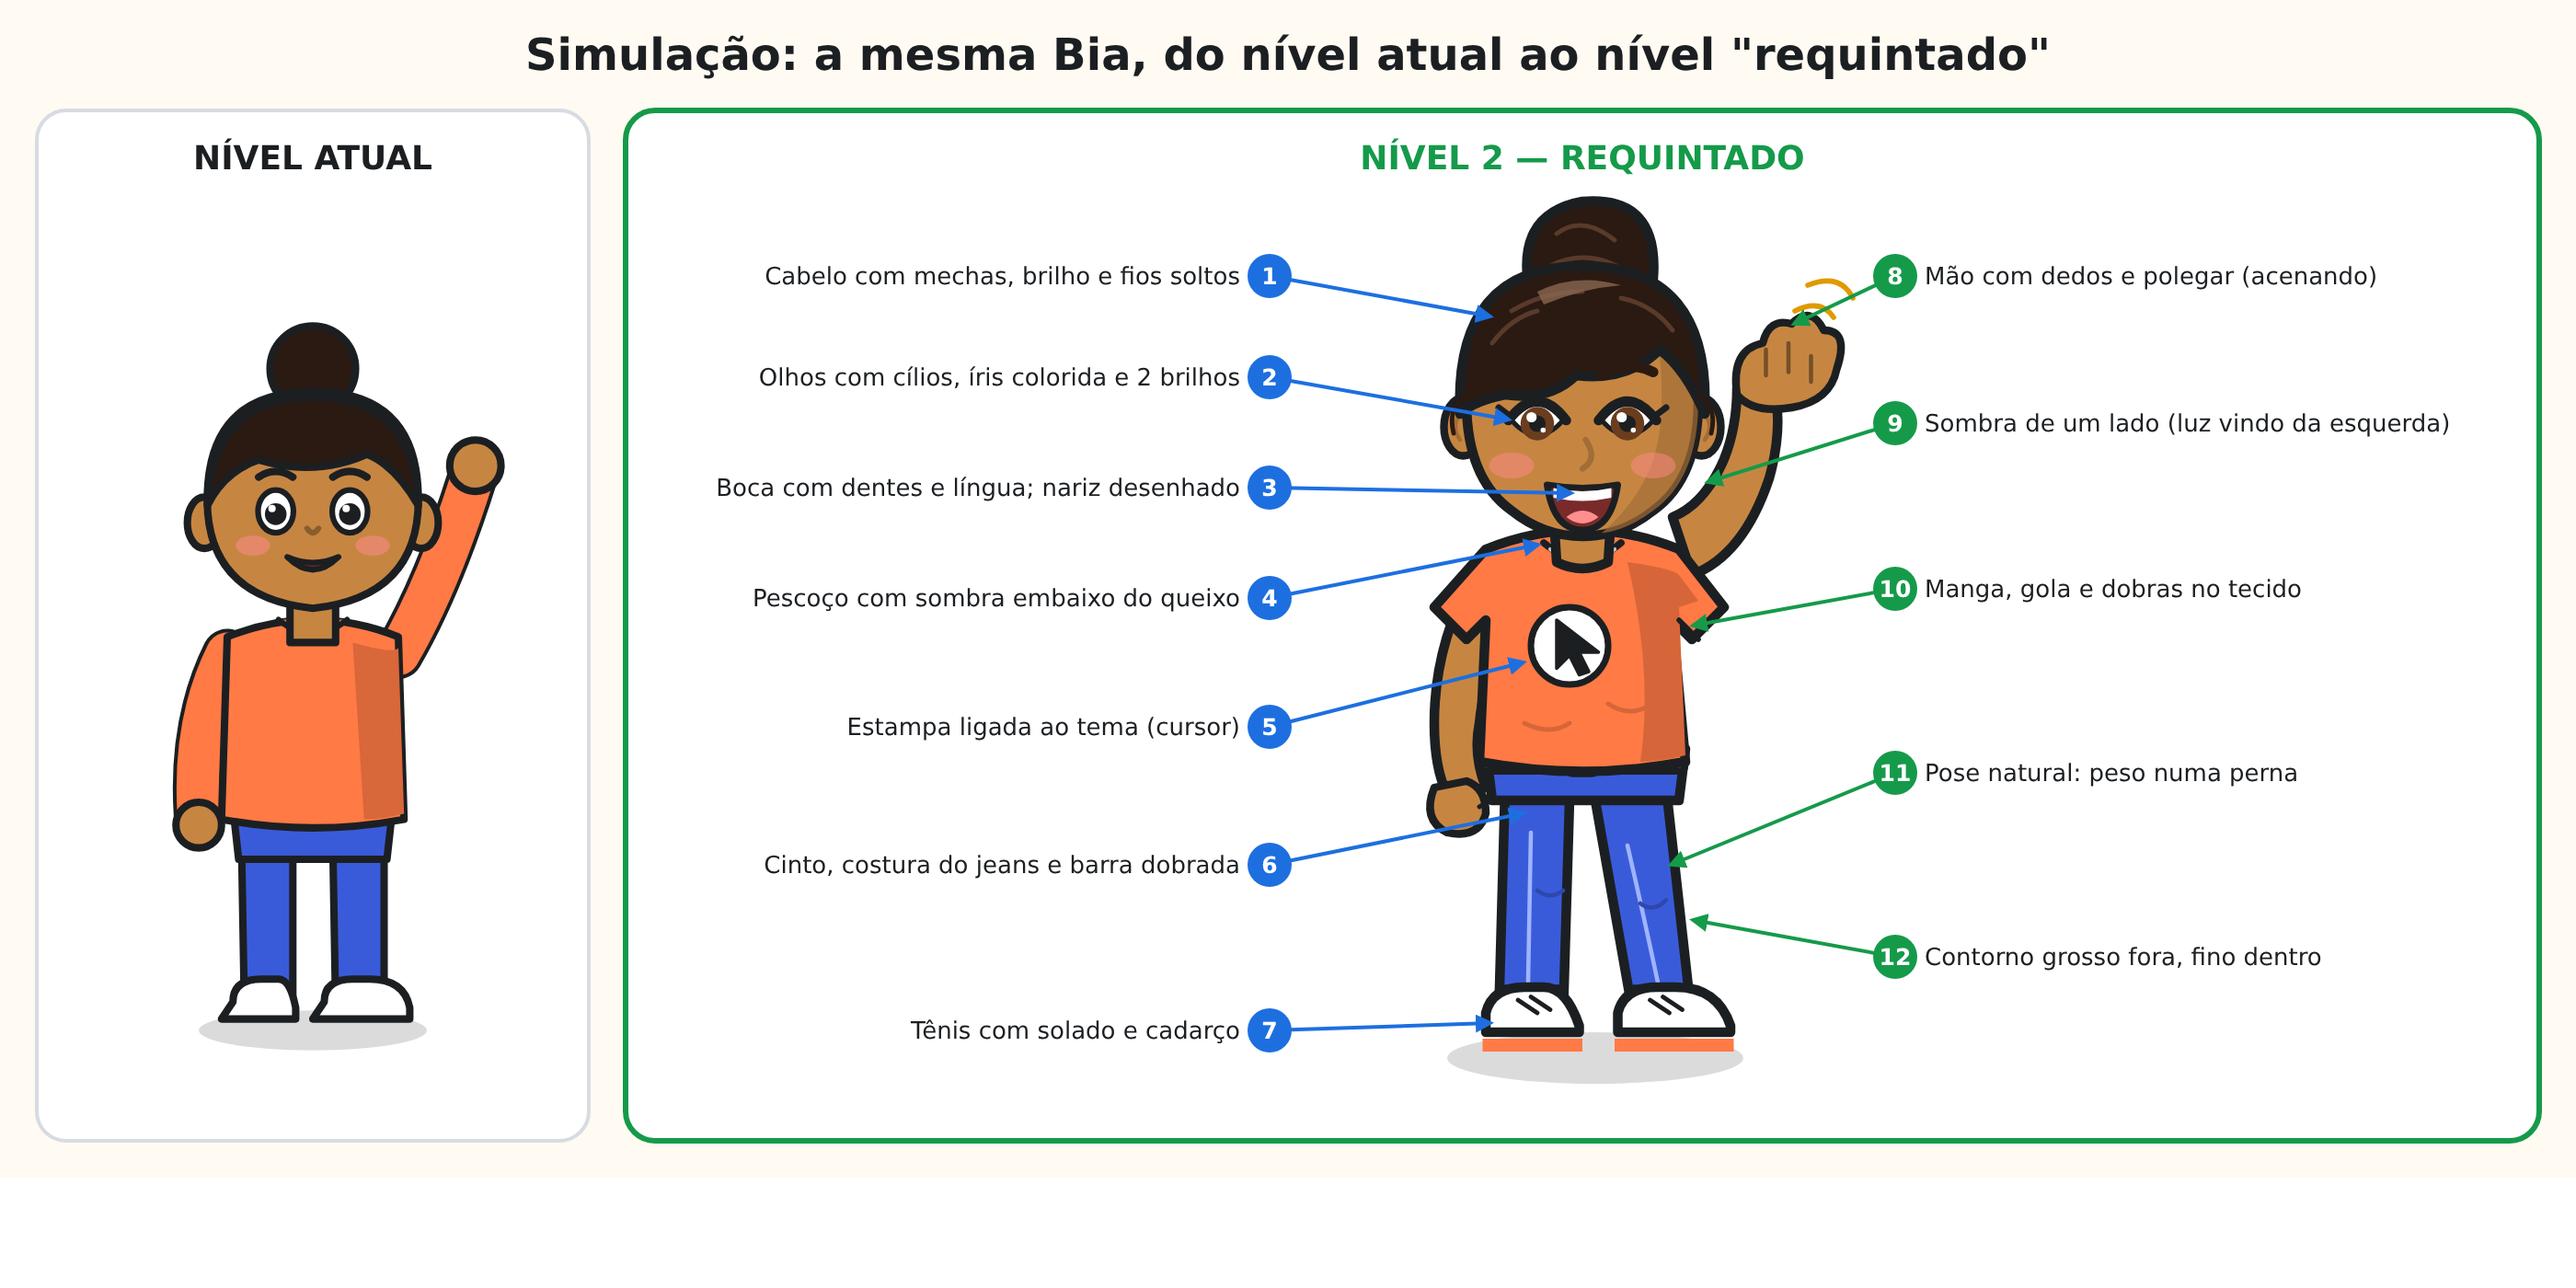
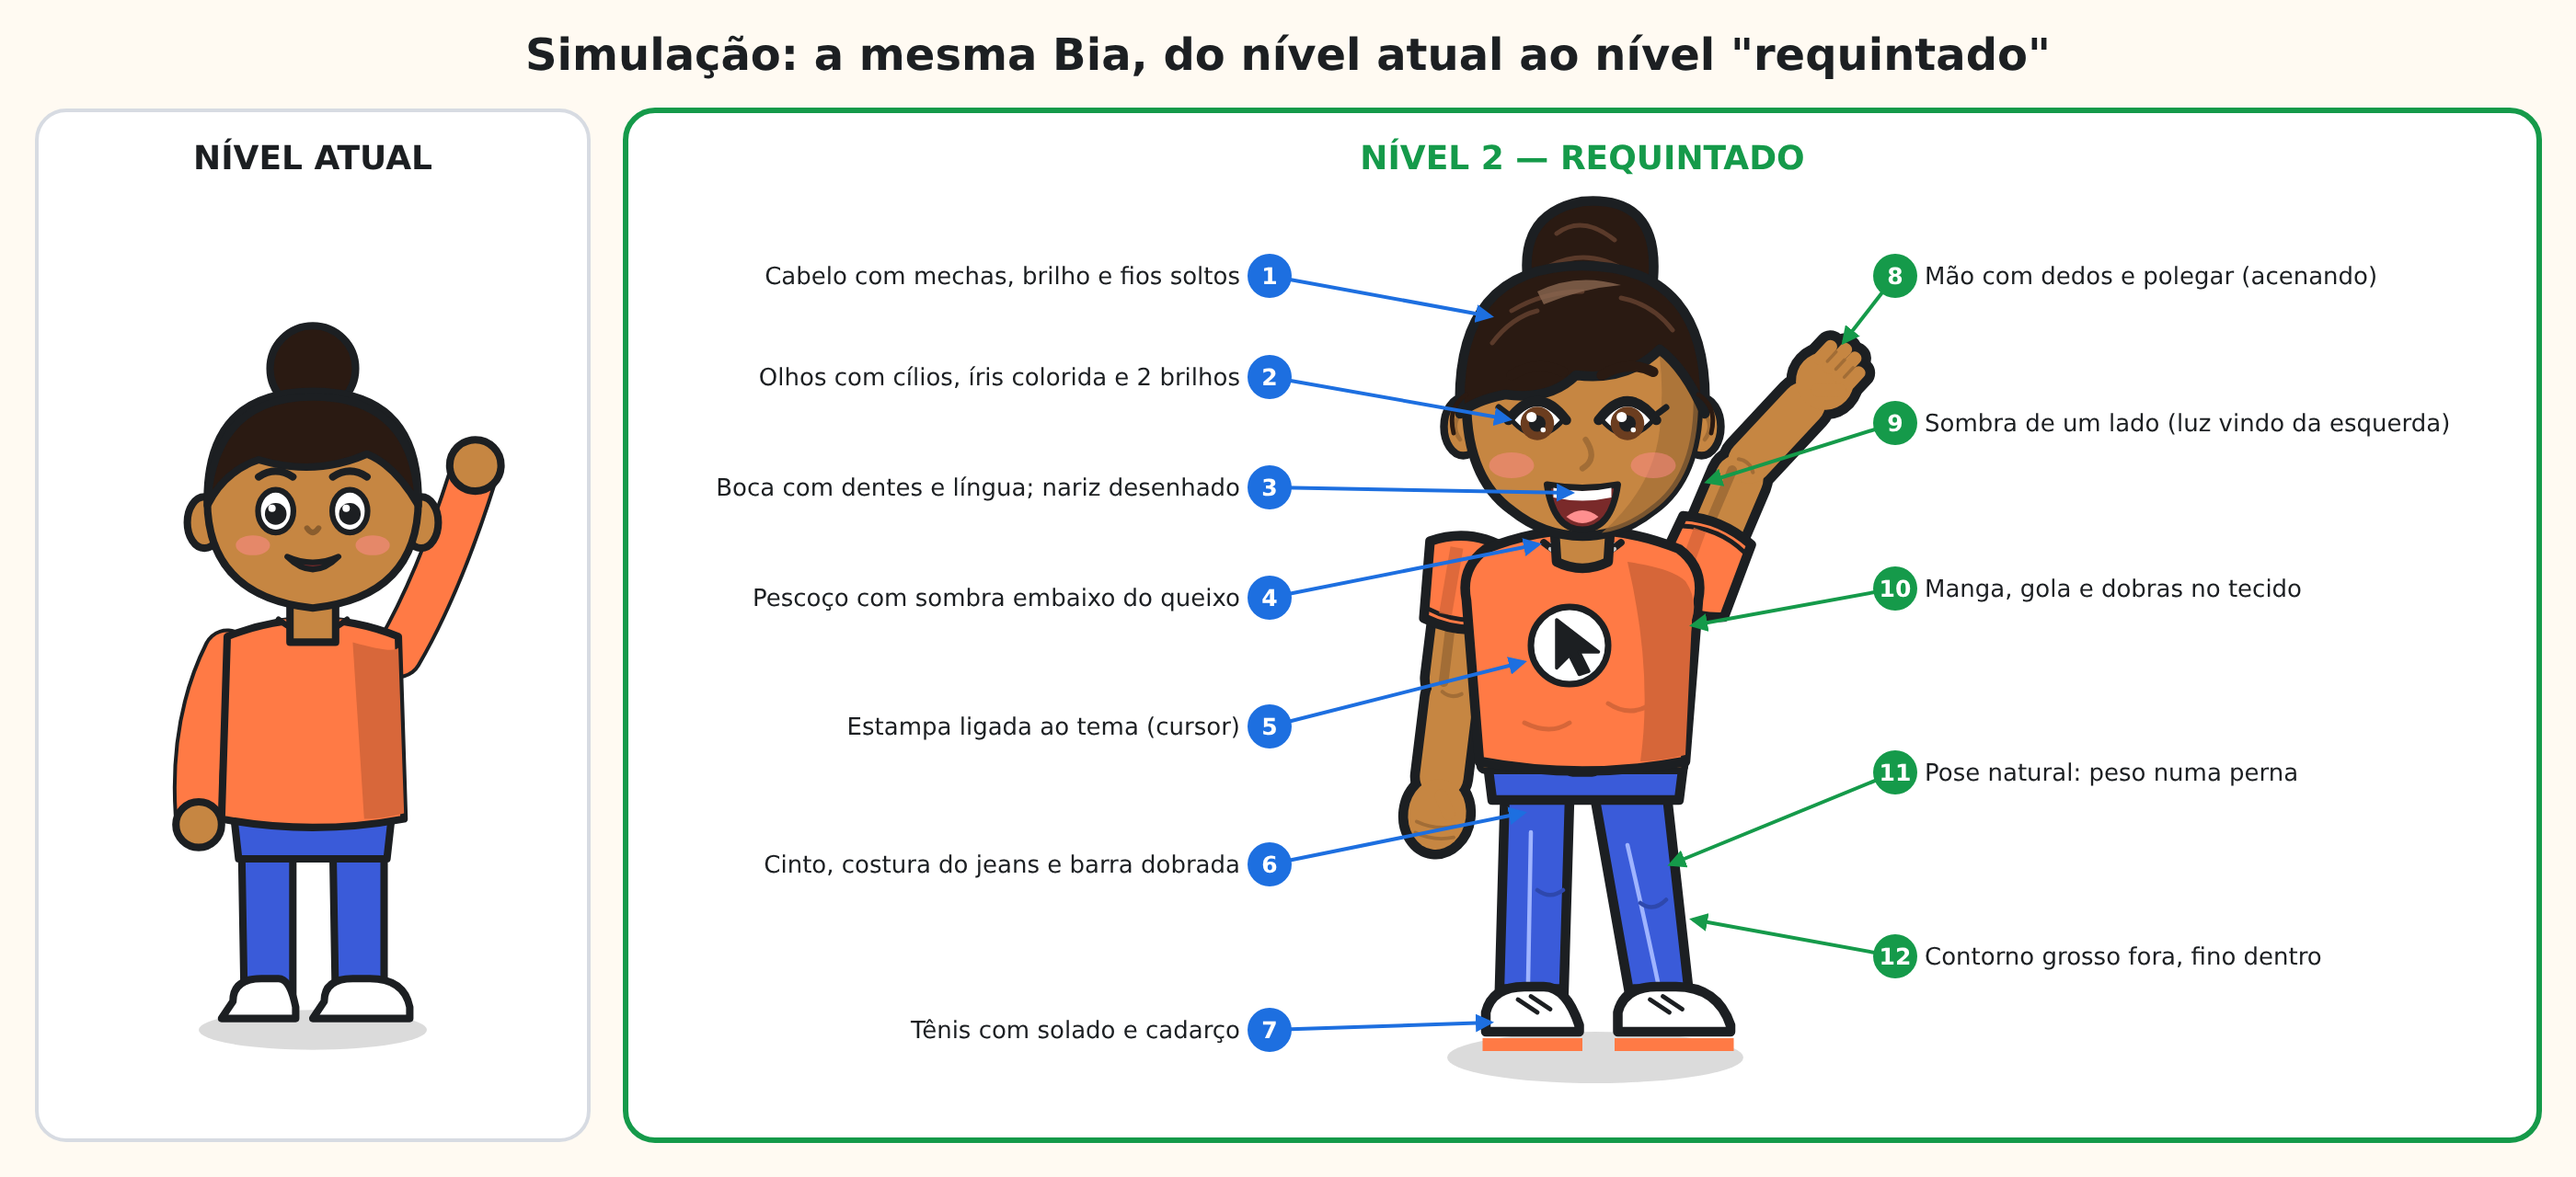
Ilustração nível 2: braços iguais (mesma peça espelhada), mais grossos e saindo de trás do tronco; simulação e animação refeitas
Claude-Session: https://claude.ai/code/session_01QQHyr7T7AGjhG6uSVjRWaC

diff --git a/ferramentas/ilustracoes/personagem_nivel2.py b/ferramentas/ilustracoes/personagem_nivel2.py
@@ -17,7 +17,7 @@ CAB, CAB_L = P["cabelo"], "#5a3a2a"
 CAM, CAM_S = P["camisa"], escurecer(P["camisa"], .84)
 JEANS, JEANS_S = "#3a5bd9", escurecer("#3a5bd9", .8)
 
-OMBRO = (34, -150)
+
 
 def _pernas():
     o = []
@@ -33,31 +33,58 @@ def _pernas():
     o.append(f'<path d="M-30 -96 L-28 -80 H30 L32 -96 Z" {L(JEANS)}/><rect x="-32" y="-96" width="64" height="7" rx="2" {L("#6b4a2b", 2)}/><rect x="-5" y="-97" width="10" height="9" rx="2" {L("#ffd34d", 1.6)}/>')
     return "".join(o)
 
-def _braco_esquerdo():  # de quem olha: parado ao lado do corpo
-    return (f'<path d="M-34 -150 q-12 22 -12 46 q0 14 4 22 l12 -2 q-4 -10 -2 -20 q2 -18 10 -36 Z" {L(PELE)}/>'
-            f'<path d="M-46 -84 q-4 10 4 14 q10 2 12 -6 q0 -8 -6 -10 Z" {L(PELE, 2.4)}/><path d="M-32 -78 q4 -2 4 -8" {li(1.4)}/>')
-
 def _tronco():
-    o = [f'<path d="M-30 -158 q30 -12 60 0 q8 6 6 16 L32 -92 q-32 6 -64 0 L-30 -136 l-6 6 l-10 -10 Z" {L(CAM)}/>',
+    o = [f'<path d="M-30 -158 q30 -12 60 0 q8 6 6 16 L32 -92 q-32 6 -64 0 L-36 -142 q-2 -10 6 -16 Z" {L(CAM)}/>',
          f'<path d="M14 -154 q14 2 18 6 q4 6 2 12 L32 -94 q-8 2 -14 2 Q22 -120 14 -154 Z" fill="{CAM_S}"/>',
-         f'<path d="M-36 -130 l6 -6" {li(1.6)}/>',
          f'<path d="M-12 -160 q12 10 24 0" {L("#ffffff", 2.2)}/><path d="M-10 -158 q10 7 20 0" {li(1.2, "#c9c9c9")}/>',
          f'<path d="M-18 -104 q8 4 14 0 M8 -110 q6 4 12 1" {li(1.4, CAM_S)}/>',
          f'<circle cx="-4" cy="-128" r="12" {L("#ffffff", 2)}/><path d="M-8 -136 v15 l4 -4 l3 6 l3 -1 l-3 -6 h6 Z" {L(T, 1)}/>',
          f'<path d="M-9 -170 L-8 -154 q8 4 16 0 L9 -170 Z" {L(PELE)}/><path d="M-8 -166 q8 6 16 0 L9 -170 H-9 Z" fill="{PELE_S}"/>']
     return "".join(o)
 
-def _braco_direito(ombro, cotovelo, mao):
-    """Desenhado pendurado (apontando para baixo); as 3 articulações giram: ombro, cotovelo e punho."""
-    ox, oy = OMBRO; ex, ey = ox + 4, oy + 40; px, py = ex + 2, ey + 34
-    manga = f'<path d="M{ox - 10} {oy - 6} q14 -8 22 4 l-4 18 q-10 4 -18 -2 Z" {L(CAM)}/><path d="M{ox - 8} {oy + 14} q9 4 16 -1" {li(1.6)}/>'
-    braco = f'<path d="M{ox - 7} {oy + 6} L{ex - 6} {ey} L{ex + 7} {ey} L{ox + 9} {oy + 6} Z" {L(PELE)}/>'
-    ante = f'<path d="M{ex - 6} {ey - 2} L{px - 5} {py} L{px + 6} {py} L{ex + 7} {ey - 2} Z" {L(PELE)}/><circle cx="{ex + .5}" cy="{ey}" r="6.6" fill="{PELE}"/>'
-    # mão aberta: palma + 4 dedos + polegar (apontando para baixo antes de girar)
-    m = (f'<path d="M{px - 8} {py - 2} q-2 10 0 16 l1 12 q2 3 4 0 l0 -9 l2 12 q2 3 4 0 l0 -12 l2 11 q2 3 4 0 l0 -11 l1 8 q2 3 4 0 l-1 -14 q2 -8 -2 -13 Z" {L(PELE, 2.4)}/>'
-         f'<path d="M{px - 8} {py + 6} q-8 2 -9 9 q2 3 5 1 q2 -5 6 -4" {L(PELE, 2.2)}/>')
-    return (f'<g transform="rotate({ombro} {ox} {oy})">{braco}'
-            f'<g transform="rotate({cotovelo} {ex} {ey})">{ante}<g transform="rotate({mao} {px} {py})">{m}</g></g>{manga}</g>')
+# Braços: os DOIS usam a mesma peça (mesmas medidas), um é o espelho do outro.
+# Medidas a partir do ombro: braço 36, antebraço 30, mão ~20 (ponta dos dedos a ~86 do ombro).
+REPOUSO = -7          # braço solto ao lado do corpo, levemente afastado do tronco
+OMBRO = (36, -150)    # ombro direito (de quem olha); o esquerdo é (-36, -150)
+BRACO, ANTEBRACO = 36, 30
+
+def _peca_braco(ombro, cotovelo, mao, aberta, modo):
+    """modo "contorno": desenha só o contorno grosso; modo "cor": só o recheio (cobre as emendas por dentro)."""
+    if modo == "contorno": est = f'fill="{T}" stroke="{T}" stroke-width="6" stroke-linejoin="round"'
+    else: est = f'fill="{PELE}"'
+    cot = BRACO; pun = BRACO + ANTEBRACO
+    braco = f'<rect x="-7.5" y="-4" width="15" height="{BRACO + 8}" rx="7.5" {est}/>'
+    ante = f'<rect x="-6.8" y="{cot - 4}" width="13.6" height="{ANTEBRACO + 8}" rx="6.8" {est}/>'
+    if aberta:   # mão aberta: palma + 4 dedos + polegar
+        m = f'<ellipse cx="0" cy="{pun + 7}" rx="9" ry="9" {est}/>'
+        for i, (dx, comp) in enumerate(((-6, 9), (-2, 11.5), (2, 11.5), (6, 9))):
+            m += f'<rect x="{dx - 2}" y="{pun + 9}" width="4" height="{comp}" rx="1.8" {est}/>'
+        m += f'<rect x="-3" y="{pun + 1}" width="4" height="11" rx="2" transform="rotate(48 {-1} {pun + 4})" {est}/>'
+    else:        # mão relaxada: fechadinha, do mesmo tamanho
+        m = f'<ellipse cx="0" cy="{pun + 9}" rx="9" ry="11" {est}/>'
+        m += f'<rect x="-3" y="{pun + 1}" width="4" height="10" rx="2" transform="rotate(30 {-1} {pun + 4})" {est}/>'
+    return (f'<g transform="rotate({ombro + REPOUSO})">{braco}'
+            f'<g transform="rotate({cotovelo} 0 {cot})">{ante}<g transform="rotate({mao} 0 {pun})">{m}</g></g></g>')
+
+def _detalhes_braco(ombro, cotovelo, mao, aberta):
+    cot = BRACO; pun = BRACO + ANTEBRACO
+    sombra = f'<path d="M3 6 V{BRACO - 2}" stroke="{PELE_S}" stroke-width="3" stroke-linecap="round"/>'
+    dobra = f'<path d="M-3 {cot + 1} q3 2 6 0" {li(1.2, PELE_S)}/>'
+    if aberta:
+        dedos = ''.join(f'<path d="M{dx} {pun + 12} v4" {li(1, PELE_S)}/>' for dx in (-3.6, 0, 3.6))
+    else:
+        dedos = ''.join(f'<path d="M-6 {pun + y} q6 2 12 0" {li(1.1, PELE_S)}/>' for y in (12, 15.5))
+    manga = (f'<path d="M-12.5 -9 Q0 -15 12.5 -9 L11.5 15 Q0 19 -11.5 15 Z" {L(CAM)}/>'
+             f'<path d="M-10.5 12 Q0 16 10.5 12" {li(1.4)}/><path d="M4 -8 L5 13" stroke="{CAM_S}" stroke-width="4" opacity=".8"/>')
+    return (f'<g transform="rotate({ombro + REPOUSO})">{sombra}'
+            f'<g transform="rotate({cotovelo} 0 {cot})">{dobra}<g transform="rotate({mao} 0 {pun})">{dedos}</g></g>{manga}</g>')
+
+def _braco(lado, ombro=0, cotovelo=0, mao=0, aberta=False):
+    """lado = 1 (direito de quem olha) ou -1 (esquerdo, espelhado). Ângulo negativo levanta o braço para fora."""
+    ox, oy = OMBRO
+    ini = f'<g transform="translate({ox * lado} {oy}) scale({lado} 1)">'
+    return (ini + _peca_braco(ombro, cotovelo, mao, aberta, "contorno") + _peca_braco(ombro, cotovelo, mao, aberta, "cor")
+            + _detalhes_braco(ombro, cotovelo, mao, aberta) + '</g>')
 
 def _cabeca(olhos, inclina, boca):
     o = [f'<g transform="rotate({inclina} 0 -166)">']
@@ -94,6 +121,9 @@ def _cabeca(olhos, inclina, boca):
     o.append('</g>')
     return "".join(o)
 
-def bia_n2(ombro=0, cotovelo=0, mao=0, olhos="abertos", inclina=0, boca="sorriso", sobe=0):
+def bia_n2(ombro=0, cotovelo=0, mao=0, olhos="abertos", inclina=0, boca="sorriso", sobe=0, esq=(0, 0, 0)):
+    """ombro/cotovelo/mao = braço direito (de quem olha); esq = (ombro, cotovelo, mao) do braço esquerdo."""
+    aberta = ombro < -40
     return (sombra_chao(4, 0, 46, 8) + _pernas() + f'<g transform="translate(0 {sobe})">'
-            + _braco_esquerdo() + _tronco() + _cabeca(olhos, inclina, boca) + _braco_direito(ombro, cotovelo, mao) + '</g>')
+            + _braco(-1, *esq, aberta=esq[0] < -40) + _braco(1, ombro, cotovelo, mao, aberta=aberta)
+            + _tronco() + _cabeca(olhos, inclina, boca) + '</g>')

diff --git a/ferramentas/ilustracoes/simulacao_requinte.py b/ferramentas/ilustracoes/simulacao_requinte.py
@@ -3,6 +3,8 @@ import sys
 from biblioteca import *
 
 T = TINTA
+from personagem_nivel2 import bia_n2   # a Bia nível 2 oficial (braços iguais, articulados)
+
 def L(fill, w=3.0):   # contorno de fora (mais grosso)
     return f'fill="{fill}" stroke="{T}" stroke-width="{w}" stroke-linejoin="round" stroke-linecap="round"'
 def li(w=1.6, cor=T, op=1):  # linha de dentro (mais fina)
@@ -89,7 +91,7 @@ def pagina():
     o.append(f'<rect x="20" y="60" width="300" height="560" rx="16" fill="#fff" stroke="#d7dbe2" stroke-width="2"/><text x="170" y="92" font-size="18" font-weight="800" text-anchor="middle" fill="{T}">NÍVEL ATUAL</text>')
     o.append(aluno("bia", 170, 560, 1.55, bracos=("normal", "acima")))
     o.append(f'<rect x="340" y="60" width="1040" height="560" rx="16" fill="#fff" stroke="{COR["verde"]}" stroke-width="3"/><text x="860" y="92" font-size="18" font-weight="800" text-anchor="middle" fill="{COR["verde"]}">NÍVEL 2 — REQUINTADO</text>')
-    o.append(g(860, 575, 1.75, bia2()))
+    o.append(g(860, 575, 1.75, bia_n2(ombro=-150, cotovelo=20)))
     # chamadas (esquerda e direita da Bia 2)
     o.append(chamada(690, 150, 810, 172, 1, "Cabelo com mechas, brilho e fios soltos"))
     o.append(chamada(690, 205, 820, 228, 2, "Olhos com cílios, íris colorida e 2 brilhos"))
@@ -98,7 +100,7 @@ def pagina():
     o.append(chamada(690, 395, 828, 360, 5, "Estampa ligada ao tema (cursor)"))
     o.append(chamada(690, 470, 828, 442, 6, "Cinto, costura do jeans e barra dobrada"))
     o.append(chamada(690, 560, 810, 556, 7, "Tênis com solado e cadarço"))
-    o.append(chamada(1030, 150, 975, 176, 8, "Mão com dedos e polegar (acenando)", "verde"))
+    o.append(chamada(1030, 150, 1002, 186, 8, "Mão com dedos e polegar (acenando)", "verde"))
     o.append(chamada(1030, 230, 928, 262, 9, "Sombra de um lado (luz vindo da esquerda)", "verde"))
     o.append(chamada(1030, 320, 920, 340, 10, "Manga, gola e dobras no tecido", "verde"))
     o.append(chamada(1030, 420, 908, 470, 11, "Pose natural: peso numa perna", "verde"))

diff --git a/ferramentas/ilustracoes/exemplo_animacao_nivel2.py b/ferramentas/ilustracoes/exemplo_animacao_nivel2.py
@@ -4,7 +4,7 @@ Uso: python3 exemplo_animacao_nivel2.py <pasta de saída>"""
 import sys, os, math, json
 sys.path.insert(0, os.path.dirname(os.path.abspath(__file__)))
 from biblioteca import COR, cena_svg, g
-from personagem_nivel2 import bia_n2, OMBRO
+from personagem_nivel2 import bia_n2, OMBRO, REPOUSO, BRACO, ANTEBRACO
 
 X, Y, S = 220, 470, 1.55
 def fundo():
@@ -19,8 +19,8 @@ def quadro(om, co, mao, olhos, inc, boca, sobe, fala=False, rig=False):
         ox, oy = OMBRO
         def gira(px, py, cx, cy, ang):
             r = math.radians(ang); return cx + (px - cx) * math.cos(r) - (py - cy) * math.sin(r), cy + (px - cx) * math.sin(r) + (py - cy) * math.cos(r)
-        ex, ey = gira(ox + 4, oy + 40, ox, oy, om)
-        px, py = gira(ox + 6, oy + 74, ox, oy, om); px, py = gira(px, py, ex, ey, co)
+        ex, ey = gira(ox, oy + BRACO, ox, oy, om + REPOUSO)
+        px, py = gira(ox, oy + BRACO + ANTEBRACO, ox, oy, om + REPOUSO); px, py = gira(px, py, ex, ey, co)
         pin = lambda x, y, t, dx=14: (f'<circle cx="{X + x*S}" cy="{Y + y*S}" r="8" fill="#fff" stroke="{COR["vermelho"]}" stroke-width="4"/>'
                                      f'<text x="{X + x*S + dx}" y="{Y + y*S + 5}" font-size="15" font-weight="800" fill="{COR["vermelho"]}">{t}</text>')
         c += pin(ox, oy, "1 ombro") + pin(ex, ey, "2 cotovelo") + pin(px, py, "3 punho") + pin(0, -166, "4 pescoço", -100)
